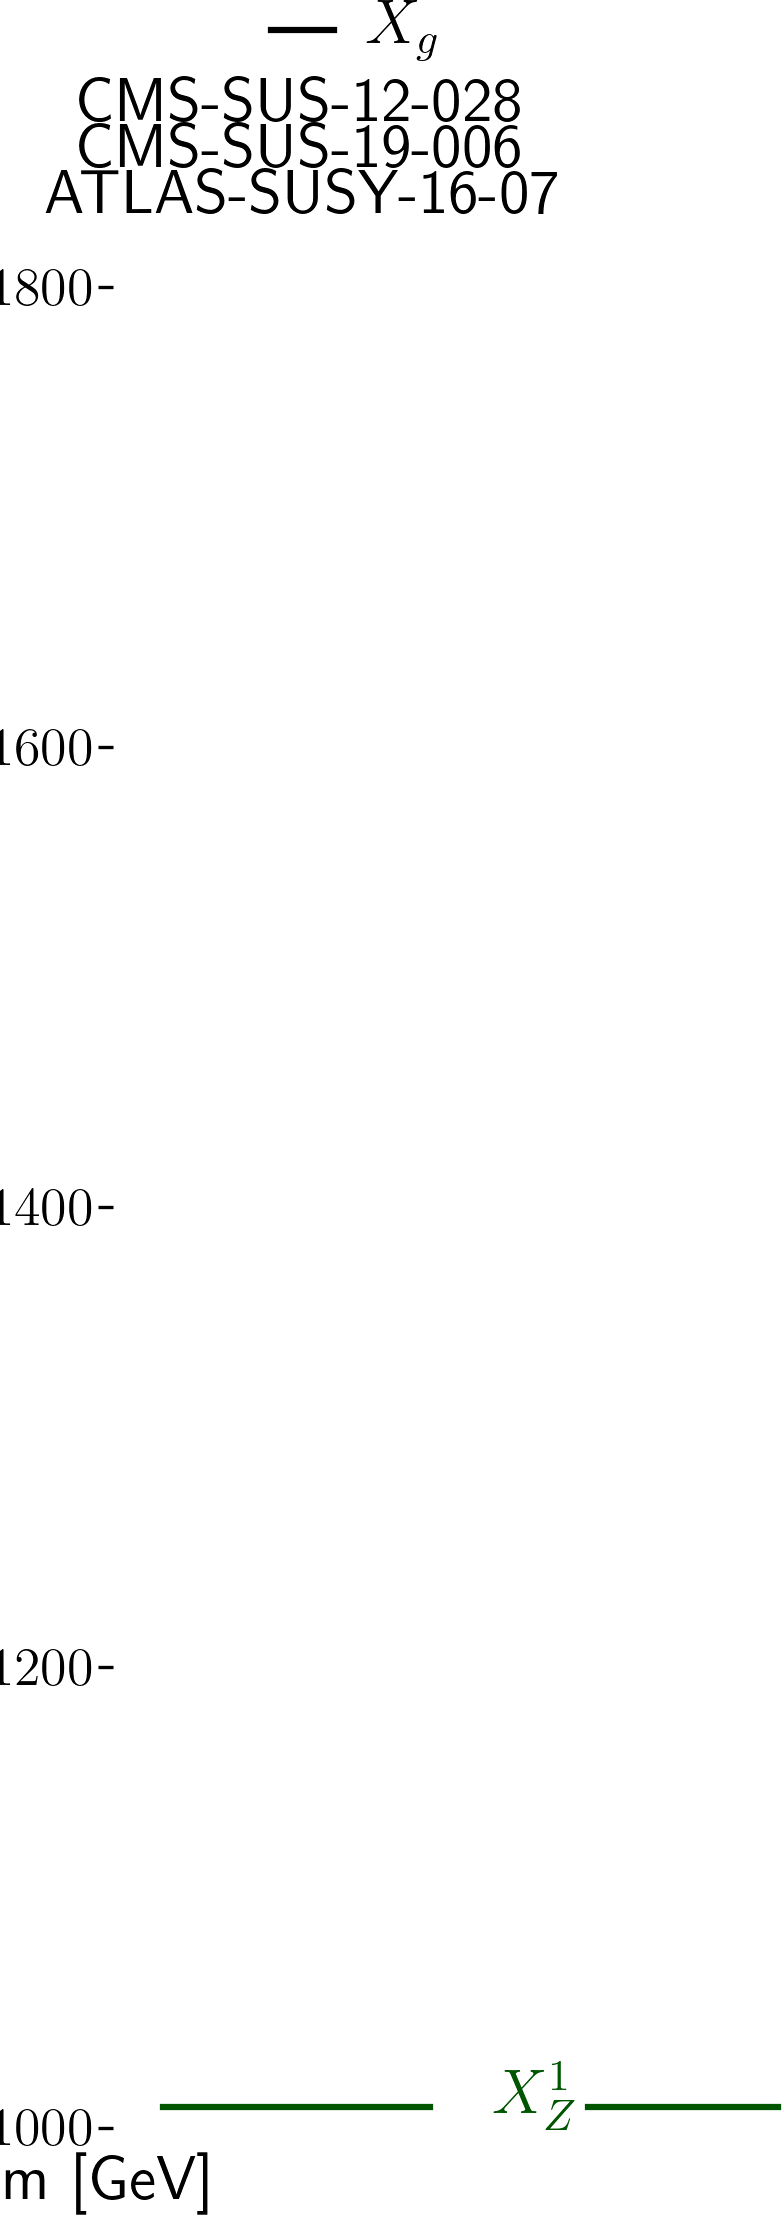
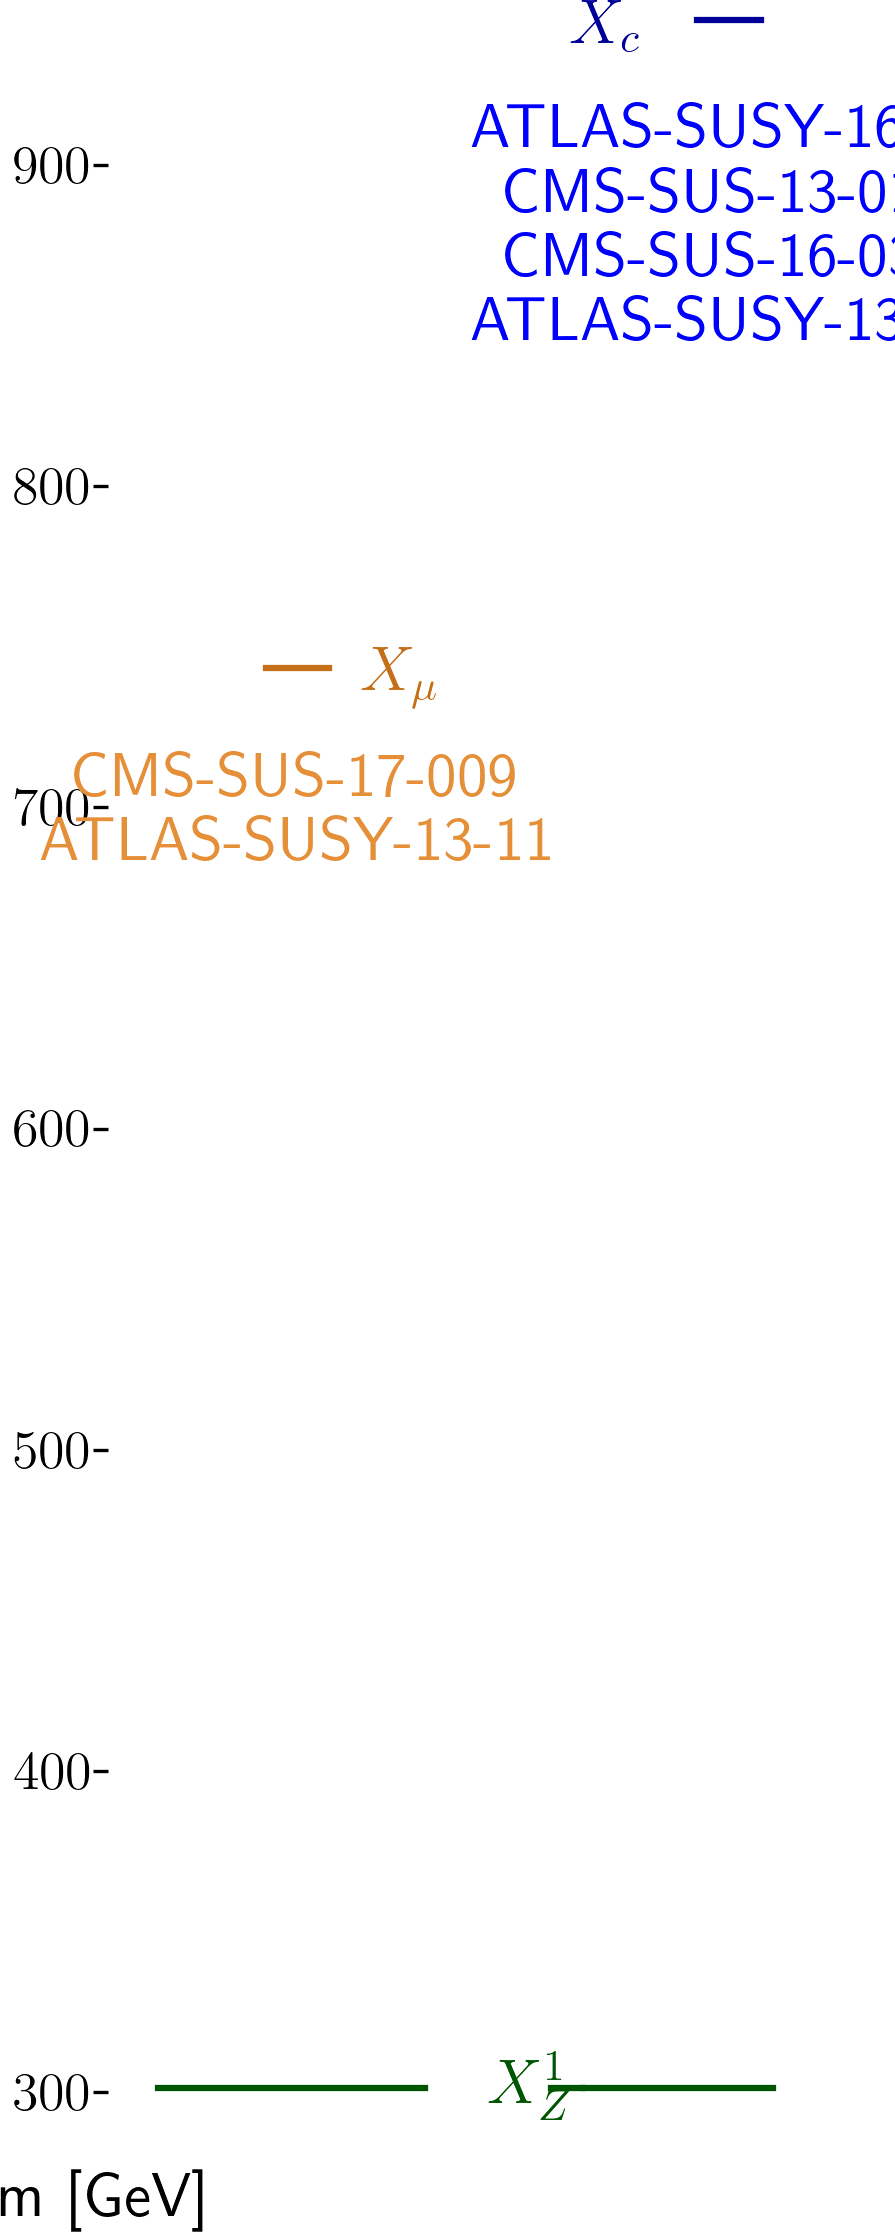
automated update by plotHiscore.py

diff --git a/protomodels/latest/index.html b/protomodels/latest/index.html
@@ -1,28 +1,27 @@
 <html>
 <body>
 <center>
-<table><td><h1>Current best protomodel: K=6.14</h1><td><img height=60px src=https://smodels.github.io/pics/banner.png></table>
+<table><td><h1>Current best protomodel: K=8.23</h1><td><img height=60px src=https://smodels.github.io/pics/banner.png></table>
 </center>
-<b><a href=./hiscore.slha>ProtoModel</a> <a href=./pmodel.py>(dict)</a> produced with <a href=https://smodels.github.io/docs/Validation124signal1>database v1.2.4signal1</a>, combination strategy <a href=./matrix_aggressive.png>aggressive</a> in walker 43 step 588.</b> K plots for: <a href=./M1000022.png?6646822>X<sub>Z</sub><sup>1</sup></a>, <a href=./M1000021.png?6646822>X<sub>g</sub></a>. HPD plots for: <a href=./llhd1000021.png?6646822>X<sub>g</sub></a>. SSM plots for: <a href=./ssm_1000021_1000021.png?6646822>(X<sub>g</sub>,X<sub>g</sub>)</a><br>
+<b><a href=./hiscore.slha>ProtoModel</a> <a href=./pmodel.py>(dict)</a> produced with <a href=https://smodels.github.io/docs/Validation124signal1>database v1.2.4signal1</a>, combination strategy <a href=./matrix_aggressive.png>aggressive</a> in walker 48 step 282.</b> K plots for: <a href=./M1000022.png?6647928>X<sub>Z</sub><sup>1</sup></a>, <a href=./M1000013.png?6647928>X_{\mu}</a>. HPD plots for: <a href=./llhd1000013.png?6647928>X_{\mu}</a>. SSM plots for: <br>
 <table width=80%>
 <tr><td>
-<br><b>18 predictions available. Highest r values are:</b><br><ul>
-<li><a href=https://atlas.web.cern.ch/Atlas/GROUPS/PHYSICS/PAPERS/SUSY-2016-07/>ATLAS-SUSY-2016-07</a>:T1,TGQ,T2 r=1.30, r<sub>exp</sub>=1.37<br>
-<li><a href=http://cms-results.web.cern.ch/cms-results/public-results/publications/SUS-19-006/index.html>CMS-SUS-19-006</a>:T1tttt r=0.96, r<sub>exp</sub>=1.26<br>
-<li><a href=http://cms-results.web.cern.ch/cms-results/public-results/publications/SUS-16-033/index.html>CMS-SUS-16-033</a>:T1tttt r=0.76, r<sub>exp</sub>=0.64<br>
-<li><a href=http://cms-results.web.cern.ch/cms-results/public-results/publications/SUS-16-037/index.html>CMS-SUS-16-037</a>:T1tttt r=0.66, r<sub>exp</sub>=N/A<br>
-<li><a href=http://cms-results.web.cern.ch/cms-results/public-results/publications/SUS-16-033/index.html>CMS-SUS-16-033</a>:T1 r=0.53, r<sub>exp</sub>=0.22<br>
+<br><b>17 predictions available. Highest r values are:</b><br><ul>
+<li><a href=https://cms-results.web.cern.ch/cms-results/public-results/publications/SUS-17-009/>CMS-SUS-17-009</a>:TSlepSlep r=1.30, r<sub>exp</sub>=1.45<br>
+<li><a href=http://cms-results.web.cern.ch/cms-results/public-results/publications/SUS-16-033/index.html>CMS-SUS-16-033</a>:T2 r=1.17, r<sub>exp</sub>=0.73<br>
+<li><a href=http://cms-results.web.cern.ch/cms-results/public-results/publications/SUS-19-006/index.html>CMS-SUS-19-006</a>:T2 r=1.05, r<sub>exp</sub>=1.06<br>
+<li><a href=http://cms-results.web.cern.ch/cms-results/public-results/publications/SUS-16-036/index.html>CMS-SUS-16-036</a>:T2 r=0.64, r<sub>exp</sub>=0.73<br>
+<li><a href=https://atlas.web.cern.ch/Atlas/GROUPS/PHYSICS/PAPERS/SUSY-2016-26/>ATLAS-SUSY-2016-26</a>:T2cc r=0.52, r<sub>exp</sub>=N/A<br>
 </ul>
 <td><br><b>K values without analyses: (contribution)</b><br>
 <ul>
-<li> <a href=https://twiki.cern.ch/twiki/bin/view/CMSPublic/PhysicsResultsSUS12028>CMS-SUS-12-028</a>: 8.74 (-63%)
-<li> <a href=https://atlas.web.cern.ch/Atlas/GROUPS/PHYSICS/PAPERS/SUSY-2016-07/>ATLAS-SUSY-2016-07</a>: 3.35 (68%)
-<li> <a href=http://cms-results.web.cern.ch/cms-results/public-results/publications/SUS-19-006/index.html>CMS-SUS-19-006</a>: 2.22 (95%)
-<td><img width=600px src=./texdoc.png?1599646822>
-<br><font size=-1>Last updated: Wed Sep  9 12:20:22 2020</font>
+<li> <a href=https://atlas.web.cern.ch/Atlas/GROUPS/PHYSICS/PAPERS/SUSY-2013-11/>ATLAS-SUSY-2013-11</a>: 4.70 (25%)
+<li> <a href=https://cms-results.web.cern.ch/cms-results/public-results/publications/SUS-17-009/>CMS-SUS-17-009</a>: -2.32 (75%)
+<td><img width=600px src=./texdoc.png?1599647928>
+<br><font size=-1>Last updated: Wed Sep  9 12:38:48 2020</font>
 </table><table style="width:80%">
-<td width=45%><img height=580px src=./ruler.png?1599646822><td width=55%><img height=380px src=./decays.png?1599646822>
-<font size=-3><iframe type="text/html" height="220px" width="100%s" frameborder="0" src="./rawnumbers.html?1599646822"></iframe></font>
+<td width=45%><img height=580px src=./ruler.png?1599647928><td width=55%><img height=380px src=./decays.png?1599647928>
+<font size=-3><iframe type="text/html" height="220px" width="100%s" frameborder="0" src="./rawnumbers.html?1599647928"></iframe></font>
 </table>
 </body>
 </html>

diff --git a/protomodels/latest/rawnumbers.html b/protomodels/latest/rawnumbers.html
@@ -1,7 +1,10 @@
 <table>
 <tr><th>Analysis Name</th><th>Type</th><th>Dataset</th><th>Observed</th><th>Expected</th><th>Approx &sigma;</th><th>Particles</th><th>Signal</th>
 </tr>
-<tr><td><a href=https://atlas.web.cern.ch/Atlas/GROUPS/PHYSICS/PAPERS/SUSY-2016-07/>ATLAS-SUSY-2016-07</a></td><td>em</td> <td>2j_Meff_1200</td><td>618</td><td>526 +/- 31</td><td style="text-align:right">2.4 &sigma;</td><td style="text-align:right">X<sub>g</sub></td><td style="text-align:right">62</td></tr>
-<tr><td><a href=https://twiki.cern.ch/twiki/bin/view/CMSPublic/PhysicsResultsSUS12028>CMS-SUS-12-028</a></td><td>ul</td> <td>-</td><td> 8.6 fb </td><td> 6.2 fb</td><td style="text-align:right">0.8 &sigma;</td><td style="text-align:right">X<sub>g</sub></td><td style="text-align:right">1.57 fb</td></tr>
-<tr><td><a href=http://cms-results.web.cern.ch/cms-results/public-results/publications/SUS-19-006/index.html>CMS-SUS-19-006</a></td><td>ul</td> <td>-</td><td> 4.1 fb </td><td> 1.9 fb</td><td style="text-align:right">2.2 &sigma;</td><td style="text-align:right">X<sub>g</sub></td><td style="text-align:right">28.69 fb</td></tr>
+<tr><td><a href=https://atlas.web.cern.ch/Atlas/GROUPS/PHYSICS/PAPERS/SUSY-2013-02/>ATLAS-SUSY-2013-02</a></td><td>em</td> <td>SR6jtp</td><td>7</td><td>4.9 +/- 1.6</td><td style="text-align:right">0.8 &sigma;</td><td style="text-align:right">X<sub>c</sub></td><td style="text-align:right">-</td></tr>
+<tr><td><a href=https://atlas.web.cern.ch/Atlas/GROUPS/PHYSICS/PAPERS/SUSY-2013-11/>ATLAS-SUSY-2013-11</a></td><td>em</td> <td>Zjets</td><td>2</td><td>1.4 +/- 0.6</td><td style="text-align:right">0.5 &sigma;</td><td style="text-align:right">X_{\mu}</td><td style="text-align:right">-</td></tr>
+<tr><td><a href=https://atlas.web.cern.ch/Atlas/GROUPS/PHYSICS/PAPERS/SUSY-2016-07/>ATLAS-SUSY-2016-07</a></td><td>em</td> <td>2j_Meff_1200</td><td>618</td><td>526 +/- 31</td><td style="text-align:right">2.4 &sigma;</td><td style="text-align:right">X<sub>c</sub></td><td style="text-align:right">62</td></tr>
+<tr><td><a href=https://twiki.cern.ch/twiki/bin/view/CMSPublic/PhysicsResultsSUS13012>CMS-SUS-13-012</a></td><td>ul</td> <td>-</td><td> 15.0 fb </td><td> 9.3 fb</td><td style="text-align:right">1.2 &sigma;</td><td style="text-align:right">X<sub>c</sub></td><td style="text-align:right">1.57 fb</td></tr>
+<tr><td><a href=http://cms-results.web.cern.ch/cms-results/public-results/publications/SUS-16-033/index.html>CMS-SUS-16-033</a></td><td>em</td> <td>SR3_Njet5_Nb0_H ...</td><td>870</td><td>806 +/- 57</td><td style="text-align:right">1.0 &sigma;</td><td style="text-align:right">X<sub>c</sub></td><td style="text-align:right">64</td></tr>
+<tr><td><a href=https://cms-results.web.cern.ch/cms-results/public-results/publications/SUS-17-009/>CMS-SUS-17-009</a></td><td>ul</td> <td>-</td><td> 3.3 fb </td><td> 1.5 fb</td><td style="text-align:right">2.4 &sigma;</td><td style="text-align:right">X_{\mu}</td><td style="text-align:right">-</td></tr>
 </table>

diff --git a/protomodels/latest/pmodel.py b/protomodels/latest/pmodel.py
@@ -1,1 +1,1 @@
-{'masses': {1000022: 999.013, 1000021: 1901.596}, 'ssmultipliers': {(1000022, 1000022): 35518518.154, (1000021, 1000021): 6.25, (1000021, 1000022): 6.25}, 'decays': {1000022: {}, 1000021: {(1000022, 6): 0.297, (1000022, 5): 0.025, (1000022, 21): 0.424, (1000022, 4): 0.254}}, 'timestamp': 'Wed Sep  9 12:19:49 2020', 'Z': 3.145, 'K': 6.139, 'step': 588, 'codever': '1.0', 'dbver': '1.2.4signal1'}
+{'masses': {1000022: 291.372, 1000013: 733.309, 1000004: 935.126}, 'ssmultipliers': {(1000022, 1000022): 2.923, (1000013, 1000013): 79.776, (-1000013, 1000013): 79.776, (-1000013, -1000013): 79.776, (1000013, 1000022): 79.776, (-1000013, 1000022): 0.0, (1000004, 1000004): 1.077, (-1000004, 1000004): 1.077, (-1000004, -1000004): 1.077, (1000004, 1000022): 1.077, (-1000004, 1000022): 1.077, (1000004, 1000013): 1.077, (-1000004, 1000013): 1.077, (-1000013, 1000004): 1.077, (-1000013, -1000004): 1.077}, 'decays': {1000022: {}, 1000013: {1000022: 1.0}, 1000004: {1000022: 1.0}}, 'timestamp': 'Wed Sep  9 12:38:13 2020', 'Z': 3.432, 'K': 8.232, 'step': 282, 'codever': '1.0', 'dbver': '1.2.4signal1'}
